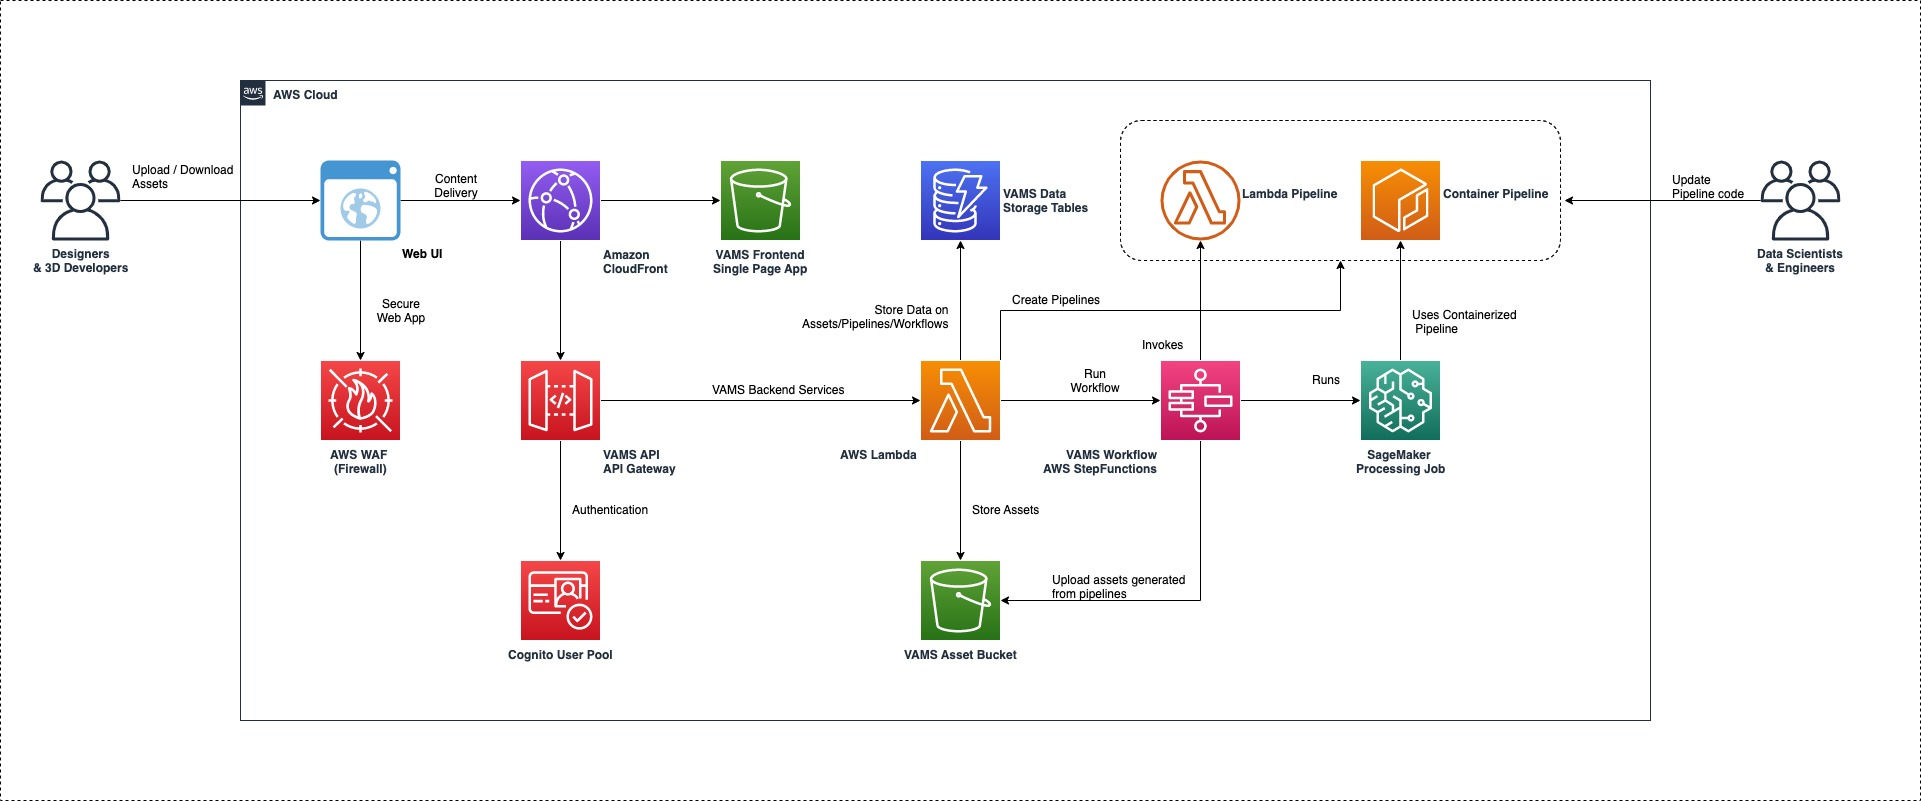
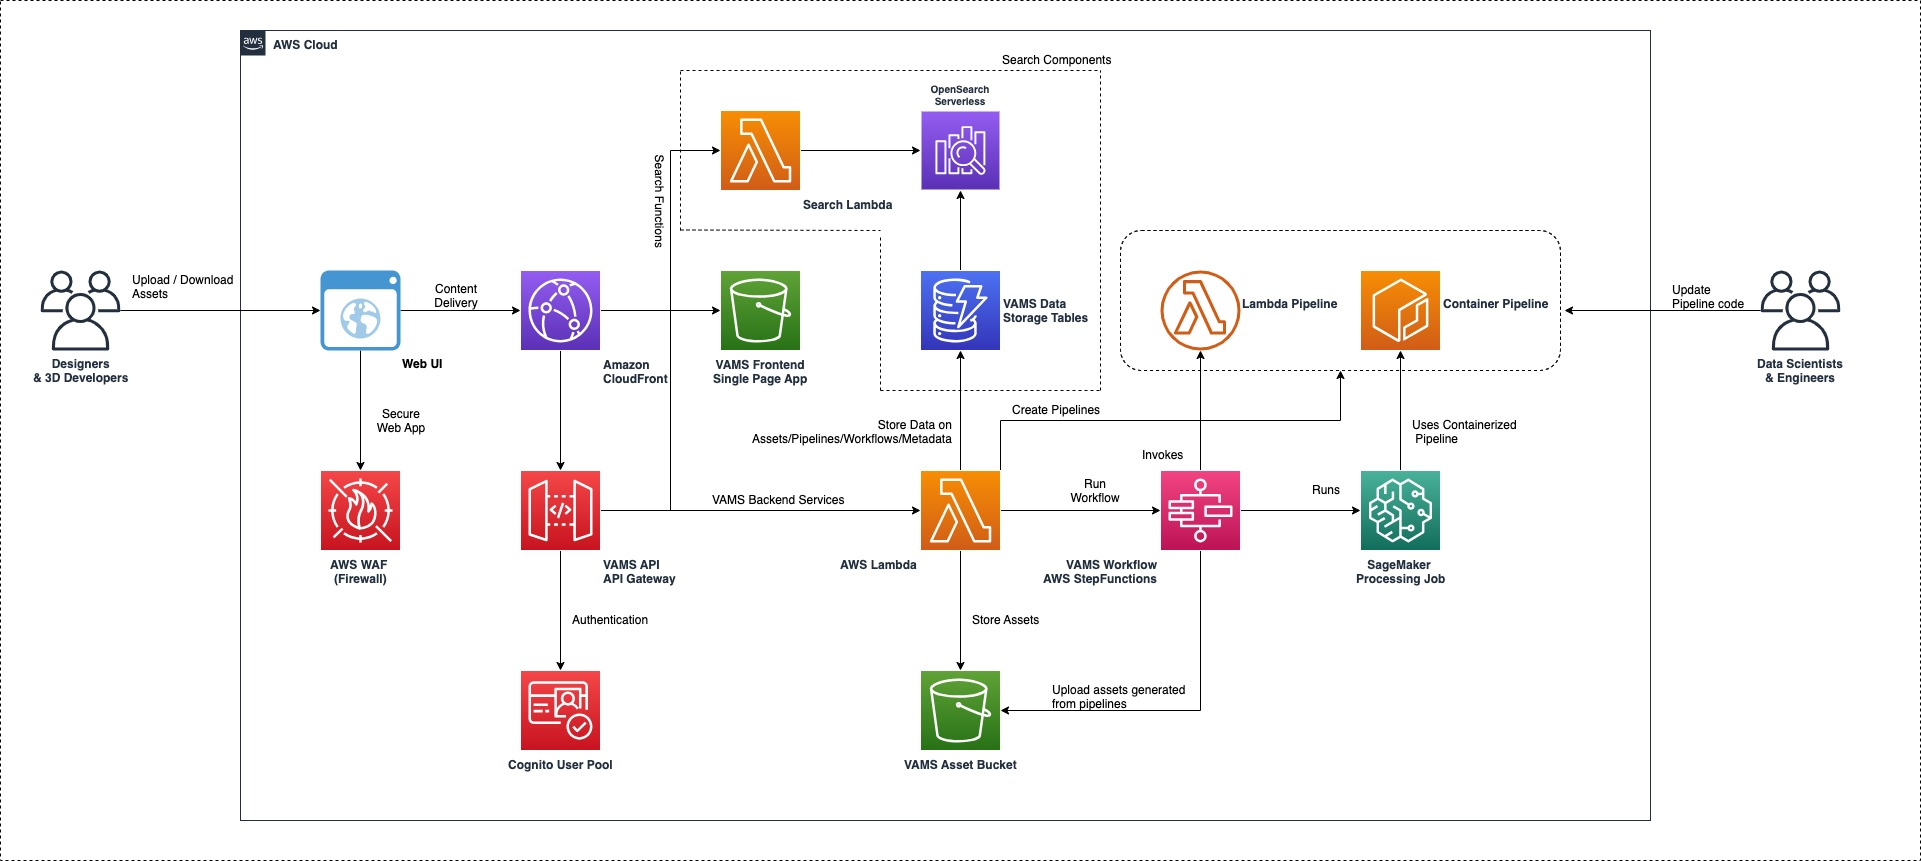
fix: Release fixes
1. Fixed the asset preview not displaying bug
2. Allowing map view to be used only with a config inside the SearchPage
3. Fixed a bug on folder viewer with a single file
4. Updated architecture diagram, Developer Documentation

diff --git a/web/src/components/createupdate/UpdateAsset.tsx b/web/src/components/createupdate/UpdateAsset.tsx
@@ -31,7 +31,6 @@ const update = async (
     setComplete: (complete: boolean) => void,
     onComplete: () => void
 ) => {
-    console.log("Updating asset");
     let uploadBody = Object.assign({}, updatedAsset);
     uploadBody.bucket = updatedAsset.assetLocation.Bucket;
     uploadBody.key = updatedAsset.assetLocation.Key;
@@ -39,7 +38,6 @@ const update = async (
 
     let isError = false;
     if (files && files.length > 0) {
-        console.log(files[0].name.split(".").pop());
         const newKey =
             "previews" +
             "/" +
@@ -49,14 +47,12 @@ const update = async (
             "." +
             files[0].name.split(".").pop();
 
-        console.log(newKey);
         await Storage.put(newKey, files[0], {
             resumable: true,
             customPrefix: {
                 public: "",
             },
             progressCallback(progress) {
-                console.log(`Uploaded: ${progress.loaded}/${progress.total}`);
                 setProgress(Math.floor((progress.loaded / progress.total) * 100));
             },
             errorCallback: (err) => {
@@ -65,7 +61,6 @@ const update = async (
                 setError({ isError: true, message: err });
             },
             completeCallback: (event) => {
-                console.log(`Successfully uploaded ${event.key}`);
                 setComplete(true);
             },
         });
@@ -75,14 +70,12 @@ const update = async (
         };
     }
     const body: Partial<UploadAssetWorkflowApi> = { uploadAssetBody: uploadBody };
-    console.log(body);
 
     if (!isError) {
         return API.post("api", "assets/uploadAssetWorkflow", {
             "Content-type": "application/json",
             body,
         }).then(() => {
-            console.log("Calling API");
         });
     }
 };
@@ -91,7 +84,6 @@ export const UpdateAsset = ({ asset, ...props }: UpdateAssetProps) => {
     const [progress, setProgress] = useState(0);
     const [error, setError] = useState({ isError: false, message: "" });
     const [complete, setComplete] = useState(false);
-    console.log(asset);
     useEffect(() => {
         return () => {
             setAssetDetail(asset);

diff --git a/web/src/components/single/ViewAsset.js b/web/src/components/single/ViewAsset.js
@@ -103,7 +103,6 @@ export default function ViewAsset() {
                         assetId: assetId,
                         workflowId: workflowId,
                     });
-                    console.log("subItems:", subItems);
                     if (subItems !== false && Array.isArray(subItems)) {
                         for (let j = 0; j < subItems.length; j++) {
                             const newParentRowChild = Object.assign({}, subItems[j]);
@@ -122,7 +121,6 @@ export default function ViewAsset() {
             }
             localforage.getItem(assetId).then((value) => {
                 if (value) {
-                    console.log("Reading from localforage:", value);
                     for (let i = 0; i < value.Asset.length; i++) {
                         if (
                             value.Asset[i].status !== "Completed" &&
@@ -234,12 +232,17 @@ export default function ViewAsset() {
             if (databaseId && assetId) {
                 const item = await fetchAsset({ databaseId: databaseId, assetId: assetId });
                 if (item !== false) {
-                    console.log(item);
                     setAsset(item);
-                    setViewerOptions([
-                        { text: "Folder", id: "folder" },
-                        { text: "Preview", id: "preview" },
-                    ]);
+                    if(item.previewLocation) {
+                        setViewerOptions([
+                            { text: "Folder", id: "folder" },
+                            { text: "Preview", id: "preview" },
+                        ]);
+                    } else {
+                        setViewerOptions([
+                            { text: "Folder", id: "folder" },
+                        ]);
+                    }
                 }
             }
         };

diff --git a/web/src/pages/search/SearchPage.tsx b/web/src/pages/search/SearchPage.tsx
@@ -137,6 +137,7 @@ function searchReducer(state: any, action: any) {
 }
 
 function SearchPage(props: SearchPageProps) {
+    const [useMapView, setUseMapView] = useState(false);
     const [state, dispatch] = useReducer(searchReducer, {
         query: { tokens: [], operation: "AND" },
         loading: false,
@@ -150,7 +151,7 @@ function SearchPage(props: SearchPageProps) {
             value: "asset",
             label: Synonyms.Assets,
         },
-        view: "mapview",
+        view: "listview",
     });
 
     return (
@@ -163,14 +164,15 @@ function SearchPage(props: SearchPageProps) {
                 )}
                 <ColumnLayout columns={2}>
                     <SearchPropertyFilter state={state} dispatch={dispatch} />
-                    <div style={{ display: "flex", justifyContent: "flex-end" }}>
+                    { useMapView && <div style={{display: "flex", justifyContent: "flex-end"}}>
                         <SearchPageSegmentedControl
                             selectedId={state.view}
                             onchange={(selectedId: string) =>
-                                dispatch({ type: "set-view", view: selectedId })
+                                dispatch({type: "set-view", view: selectedId})
                             }
                         />
                     </div>
+                    }
                 </ColumnLayout>
                 <Grid>
                     {state.view === "mapview" ? (

diff --git a/web/src/components/viewers/FolderViewer.tsx b/web/src/components/viewers/FolderViewer.tsx
@@ -53,7 +53,7 @@ export default function FolderViewer({
             if (!components || components.length === 0) {
                 console.log("components length is 0");
                 rootChildren.push({
-                    name: filePath.relativePath || filePath.key,
+                    name: filePath.relativePath || filePath.key.split("/").pop()!,
                     isOpen: true,
                     key: filePath.key,
                 });

diff --git a/backend/tests/models/assets/test_common.py b/backend/tests/models/assets/test_common.py
@@ -70,12 +70,31 @@ def only_required():
     )
 
 
+@pytest.fixture()
+def without_preview():
+    return UploadAssetWorkflowRequestModel(
+        uploadAssetBody=UploadAssetModel(
+            databaseId='1',
+            assetId='test',
+            assetName='test',
+            bucket='test_bucket',
+            key='test_file',
+            assetType='step',
+            description='Testing',
+            isDistributable=False,
+            specifiedPipelines=[],
+            Comment='Testing',
+        )
+    )
+
+
 def test_step_function_input_from_request(sample_request):
     result = GetUploadAssetWorkflowStepFunctionInput(sample_request)
     assert result.copyObjectBody is not None
     assert result.updateMetadataBody is not None
     assert result.executeWorkflowBody is not None
     assert result.uploadAssetBody is not None
+    print(result.uploadAssetBody)
 
 
 def test_step_function_input_required(only_required):
@@ -83,3 +102,10 @@ def test_step_function_input_required(only_required):
     assert result.updateMetadataBody is None
     assert result.executeWorkflowBody is None
     assert result.uploadAssetBody is not None
+
+def test_without_preview(without_preview):
+    result = GetUploadAssetWorkflowStepFunctionInput(without_preview)
+    assert result.updateMetadataBody is None
+    assert result.executeWorkflowBody is None
+    assert result.uploadAssetBody is not None
+    print(result.uploadAssetBody)

diff --git a/backend/backend/handlers/assets/uploadAsset.py b/backend/backend/handlers/assets/uploadAsset.py
@@ -126,7 +126,7 @@ def iter_Asset(body, item=None):
         version = int(asset['currentVersion']['Version']) + 1
         asset['versions'] = prevVersions
 
-    if 'previewLocation' in asset:
+    if 'previewLocation' in body and body['previewLocation'] is not None:
         asset['previewLocation'] = {
             "Bucket": body['previewLocation']['Bucket'],
             "Key": body['previewLocation']['Key']

diff --git a/DeveloperGuide.md b/DeveloperGuide.md
@@ -236,7 +236,7 @@ The CDK deployment deploys the VAMS stack into your account. The components that
 1. [Jupyter Notebook](https://docs.aws.amazon.com/dlami/latest/devguide/setup-jupyter.html) is created one per pipeline
 1. [Sagemaker](https://docs.aws.amazon.com/sagemaker/latest/dg/processing-job.html) Processing jobs are created per pipeline execution
 1. [Cognito User Pool](https://docs.aws.amazon.com/cognito/) for authentication
-
+1. [Open Search Collection](https://aws.amazon.com/opensearch-service/features/serverless/) for searching the assets using metadata
 ![ARCHITECTURE](./VAMS_Architecture.jpg)
 
 # API Schema:
@@ -311,7 +311,14 @@ k
 
 ## MetadataStorageTable
 
-Attributes are driven by user input. No predetermined fields aside from the partition and sort keys.
+| Field         | Data Type | Description                                                                     |
+| ------------- | --------- | ------------------------------------------------------------------------------- |
+| asset_id      | String    | Asset identifier for this workflow execution                                    |
+| database_id   | String    | Database to which the asset belongs                                             |
+
+
+Attributes are driven by user input. No predetermined fields aside from the partition and sort key.
+From rel 1.4 onwards, when you add metadata on a file / folder, the s3 key prefix of the file/folder is used as the asset key in the metadata table
 
 # Updating Backend
 
